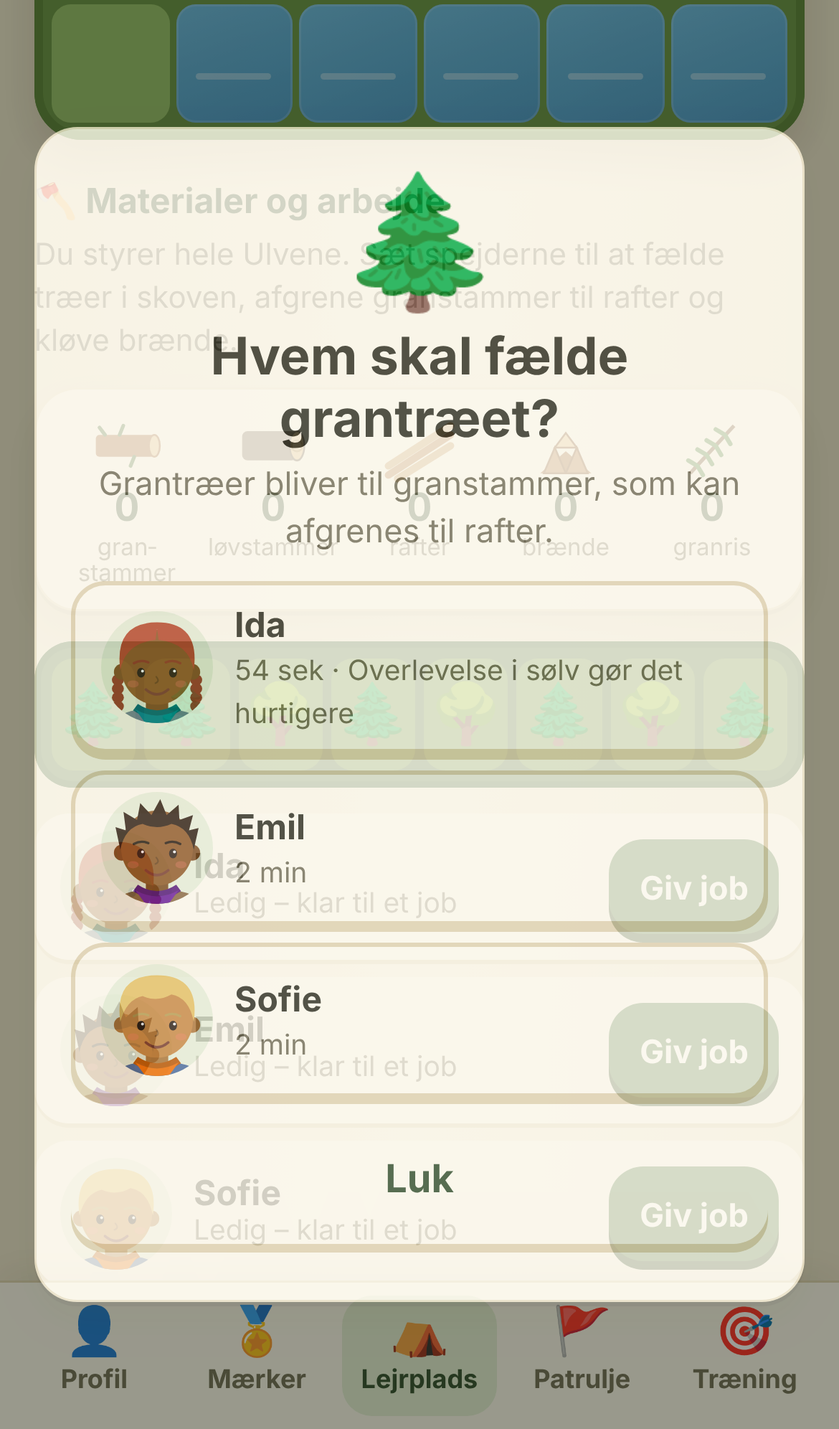
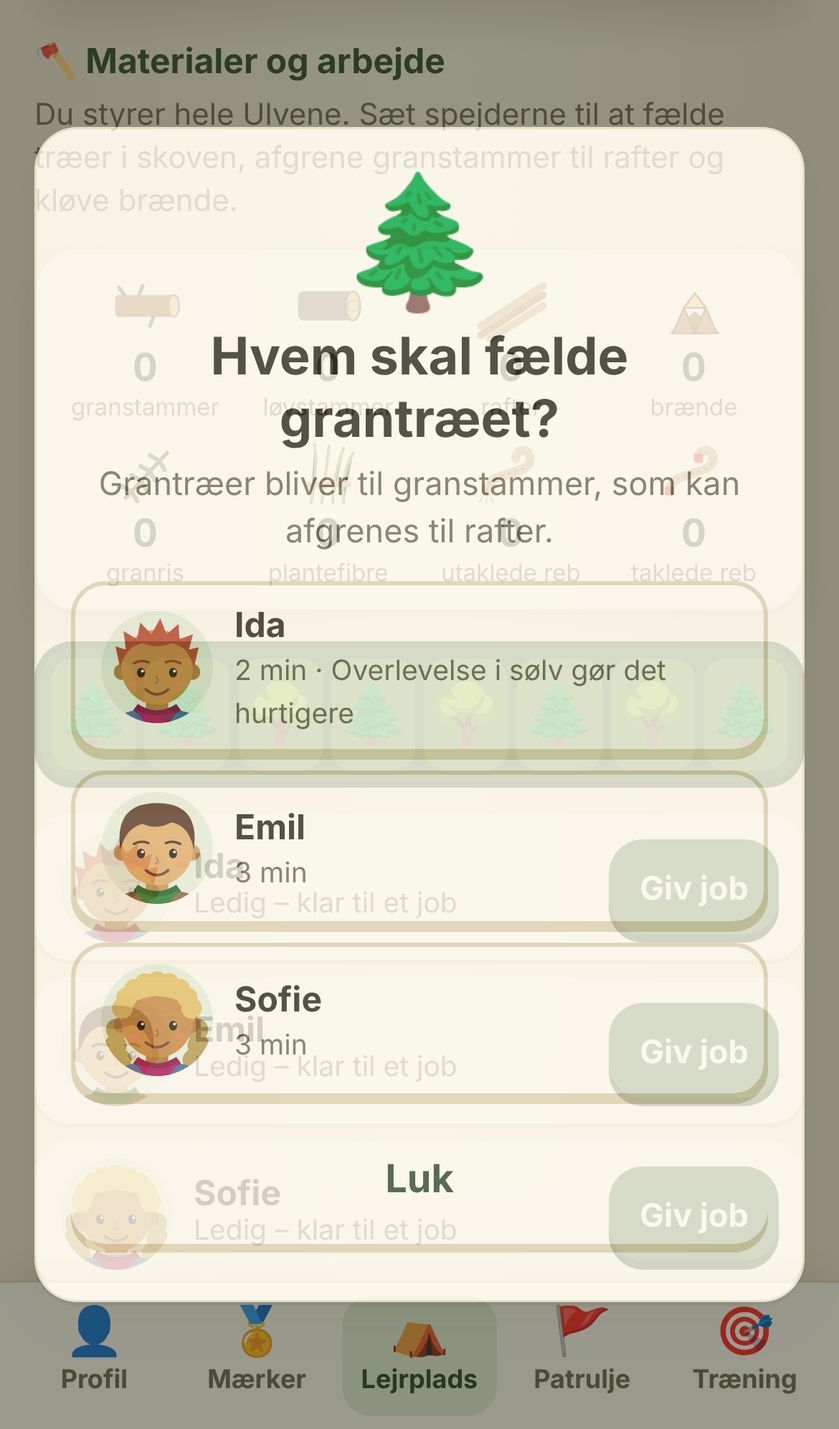
Eget tovværk, opgradering af lejrpladsen og dobbelt ventetid
- Tovværk: saml brændenælder og bast, sno tovværk og takl det (kun
  spejdere med Knob og reb kan takle). Pionerarbejde koster nu reb
- Alt på lejrpladsen kan opgraderes i 5 niveauer mod point, materialer
  og byggetid. Lejrporten får flag, tag, sidetårne, guirlande og lygter;
  andre ting får pynt, stjerner og en farvet ramme. Højere niveau giver
  flere point ved aktiviteter, og nedrivning giver alt investeret tilbage
- Alle ventetider er fordoblet via TIDSFAKTOR
- Menuer kan scrolles, når de er høje

Claude-Session: https://claude.ai/code/session_017h6cMn8WgPCx7N5m49QB4i

diff --git a/index.html b/index.html
@@ -369,7 +369,7 @@ div.prk+div.prk{border-top:1px solid var(--line)}
 .turchip{display:flex;align-items:center;gap:8px;background:#fff7d6;border:2px solid #e8c95a;border-radius:14px;padding:8px 12px;margin-bottom:10px;font-size:15px;line-height:1.3}
 
 .lagerkort{padding:10px}
-.lagerliste{display:grid;grid-template-columns:repeat(5,1fr);gap:4px}
+.lagerliste{display:grid;grid-template-columns:repeat(4,1fr);gap:8px 4px}
 .lagerchip{display:flex;flex-direction:column;align-items:center;gap:1px;min-width:0}
 .lagerchip .matik{width:34px;height:34px}.lagerchip b{font-size:18px;color:var(--forest);font-variant-numeric:tabular-nums}.lagerchip small{font-size:11px;color:var(--muted);text-align:center;line-height:1.15;hyphens:manual;max-width:100%}
 .matik{display:inline-block;vertical-align:middle}.matik.lille{width:18px;height:18px}
@@ -393,9 +393,17 @@ div.prk+div.prk{border-top:1px solid var(--line)}
 @keyframes vakl{50%{transform:rotate(-6deg)}}
 @keyframes hug{50%{transform:rotate(-30deg)}}
 
+.celle.niv2{box-shadow:inset 0 0 0 2px #cd8a4a}.celle.niv3{box-shadow:inset 0 0 0 2px #dfe4e9}
+.celle.niv4{box-shadow:inset 0 0 0 3px #f4cb4e}.celle.niv5{box-shadow:inset 0 0 0 3px #f4cb4e,0 0 10px 2px rgba(244,203,78,.8);z-index:1}
+.nivmark{position:absolute;top:1px;left:3px;z-index:2;font-size:9px;line-height:1;color:#f4cb4e;text-shadow:0 0 2px #2a2a1f,0 0 2px #2a2a1f;letter-spacing:-1px}
+.opgniv{margin:12px 0 8px;display:flex;flex-direction:column;align-items:center;gap:2px}
+.opgniv .nivstj{color:#e0a923;font-size:20px;letter-spacing:2px}.opgniv small{color:var(--muted)}
+.opgkost{font-weight:700;font-size:15px;margin:-4px 0 4px}.opgkost small{font-weight:400;color:var(--muted)}
+small.mangler{color:var(--bad);display:block;margin-bottom:8px}
+
 /* Modal / fejring */
 .overlay{position:fixed;inset:0;z-index:1000;background:rgba(30,35,20,.55);display:flex;align-items:center;justify-content:center;padding:16px;animation:fadein .2s}
-.modal{width:100%;max-width:400px;margin:0}
+.modal{width:100%;max-width:400px;margin:0;max-height:calc(100dvh - 32px);overflow-y:auto;overscroll-behavior:contain}
 .modal p{font-size:18px;margin:4px 0 8px;text-align:center}
 .celebrate{background:radial-gradient(circle at 50% 40%,#3c6a35 0,#1e321a 75%);overflow:hidden}
 .rays{position:absolute;left:50%;top:40%;width:900px;height:900px;margin:-450px 0 0 -450px;
@@ -3159,12 +3167,15 @@ const PIONER = {
     <g><ellipse cx="33" cy="9" rx="3" ry="2.2" fill="#f2c94c"/><path d="M32 7.5 v3 M34 7.5 v3" stroke="#222"/><ellipse cx="33" cy="7" rx="2" ry="1.2" fill="#fff" opacity=".8"/></g>`,
 };
 
+// Alle ventetider ganges med denne faktor (2 = dobbelt så lang tid). Sæt den ned, hvis spillet skal gå hurtigere.
+const TIDSFAKTOR = 2;
 // Byggetid i sekunder (ting, der ikke står her, bygges med det samme)
 const BYGTID = { telt:60, patruljetelt:180, hytte:900, latrin:60, baal:60, koekken:120, lejrbaal:300,
   bord:120, port:300, taarn:900, svaevebane:1200, forstehjalp:60, baare:120, hjertestarter:60,
   fuglekasse:60, opost:30, vejviser:60, kompasrose:300, vejrstation:120, solur:240, shelter:180,
   vandstation:240, traehytte:900, kano:30, badebro:600, sejlbaad:60, flag:60, liljeskilt:180,
   jamboree:600, insekthotel:180, bistade:300, morselampe:60, semaforpost:120, radiomast:300 };
+for(const k in BYGTID) BYGTID[k] *= TIDSFAKTOR;
 const TELT_IDS = ["telt","patruljetelt","jamboree"];
 
 /* ---------- Surringsopgaver til pionerarbejde ----------
@@ -3208,12 +3219,17 @@ let bygOpg = null;     // igangværende surringsopgave
 let lejrUr = null;     // opdaterer byggetider på skærmen
 
 function lejrPoint(c){ return Math.max(0, (c.point||0) - (c.brugt||0)); }
-function bygIkon(b){ return b.svg ? `<svg viewBox="0 0 40 40" aria-hidden="true">${PIONER[b.svg]}</svg>` : `<span class="emo">${b.ikon}</span>`; }
+function bygIkon(b, niv){
+  niv = niv || 1;
+  if(!b.svg) return `<span class="emo">${b.ikon}</span>`;
+  const indhold = b.id==="port" ? portSVG(niv) : PIONER[b.svg] + nivPynt(niv);
+  return `<svg viewBox="0 0 40 40" aria-hidden="true">${indhold}</svg>`;
+}
 function harKrav(c,b){ return !b.krav || (c.badges[b.krav[0]]||0) >= b.krav[1]; }
 function kravTekst(b){ return `${EMNE[b.krav[0]].navn} – ${NIVEAUER[b.krav[1]].navn.toLowerCase()}`; }
 function erVand(i){ return VAND.has(Math.floor(i/LEJR_KOL)+","+(i%LEJR_KOL)); }
 function kanStaa(b,i){ return !!b.vand === erVand(i); }
-function lejrFelter(c){ c.lejr = c.lejr || {}; c.lejrTid = c.lejrTid || {}; c.telte = c.telte || {}; return c.lejr; }
+function lejrFelter(c){ c.lejr = c.lejr || {}; c.lejrTid = c.lejrTid || {}; c.telte = c.telte || {}; c.lejrNiv = c.lejrNiv || {}; c.lejrOpg = c.lejrOpg || {}; c.lejrInv = c.lejrInv || {}; return c.lejr; }
 function restTid(c,i){ const t=(c.lejrTid||{})[i]; return t ? Math.max(0, t-Date.now()) : 0; }
 function underByg(c,i){ return restTid(c,i) > 0; }
 function fmtTid(ms){
@@ -3224,7 +3240,7 @@ function tidTekst(sek){ return sek>=60 ? `${Math.round(sek/60)} min` : `${sek} s
 
 function scrLejr(){
   const c=cur(), felter=lejrFelter(c), ledig=lejrPoint(c), antalByg=Object.keys(felter).length;
-  const nyt=tjekArbejde(c); if(nyt.length) setTimeout(()=>lejrToast(nyt.join("<br>")), 50);
+  const nyt=[...fuldfoerByg(c), ...tjekArbejde(c)]; if(nyt.length) setTimeout(()=>{ lejrToast(nyt.join("<br>")); vibrer([60,40,60]); }, 50);
   const valgt = lejrValg && (lejrValg.type==="ny" ? BYGID[lejrValg.id] : BYGID[felter[lejrValg.idx]]);
   let h = `<div class="topbar"><span class="spacer"></span><h1>${esc(c.navn)}s lejrplads</h1><span class="spacer"></span></div>
     <div class="lejrinfo"><span class="chip">🪙 <b>${fmt(ledig)}</b> point at bygge for</span><span class="chip">🏗 ${antalByg} bygget</span></div>`;
@@ -3241,9 +3257,10 @@ function scrLejr(){
     if(valgt && !b && kanStaa(valgt,i)) cls += " kan";
     if(lejrValg && lejrValg.type==="flyt" && lejrValg.idx===i) cls += " flyttes";
     if(lejrNy===i) cls += " ny";
-    const bygger = b && underByg(c,i);
+    const bygger = b && underByg(c,i), niv = b ? lejrNiv(c,i) : 1;
     if(bygger) cls += " bygger";
-    h += `<button class="celle ${cls}" data-a="celle" data-i="${i}" aria-label="${b?b.navn+(bygger?" (bygges)":""):erVand(i)?"Sø":"Græs"}">${b?bygIkon(b):""}${bygger?`<span class="tid" data-tid="${i}">⏳ ${fmtTid(restTid(c,i))}</span>`:""}</button>`;
+    if(niv>1) cls += " niv"+niv;
+    h += `<button class="celle ${cls}" data-a="celle" data-i="${i}" aria-label="${b?b.navn+(niv>1?` niveau ${niv}`:"")+(bygger?" (bygges)":""):erVand(i)?"Sø":"Græs"}">${b?bygIkon(b,niv):""}${niv>1&&!bygger?`<span class="nivmark">${"★".repeat(niv-1)}</span>`:""}${bygger?`<span class="tid" data-tid="${i}">${c.lejrOpg[i]?"⬆":"⏳"} ${fmtTid(restTid(c,i))}</span>`:""}</button>`;
   }
   h += `</div>`;
   lejrNy = null;
@@ -3282,7 +3299,7 @@ function startLejrUr(){
       const i=+el.dataset.tid, ms=restTid(c,i);
       if(ms<=0) faerdig=i; else el.textContent="⏳ "+fmtTid(ms);
     });
-    if(faerdig!==null){ delete c.lejrTid[faerdig]; save(); lejrNy=faerdig; render(); lejrToast(`🎉 ${BYGID[c.lejr[faerdig]].navn} er færdigbygget!`); vibrer([60,40,60]); }
+    if(faerdig!==null) render();
   }, 1000);
 }
 
@@ -3298,7 +3315,7 @@ function vaelgByg(id){
   if(!harKrav(c,b)){ lejrToast(`🔒 ${b.navn} kræver mærket <b>${kravTekst(b)}</b>. Tag prøven under Mærker.`); return; }
   if(lejrPoint(c) < b.pris){ lejrToast(`Du mangler ${b.pris-lejrPoint(c)} point til ${b.navn}. Svar på flere spørgsmål!`); return; }
   if(!harMat(c,BYGMAT[b.id])){ const m=manglerMat(c,BYGMAT[b.id]);
-    lejrToast(`Du mangler ${matTekst(m)} til ${b.navn}. ${m.rafter||m.granris?"Sæt nogen til at fælde grantræer og afgrene dem.":"Sæt nogen til at fælde løvtræer og kløve brænde."}`); return; }
+    lejrToast(`Du mangler ${matTekst(m)} til ${b.navn}. ${m.reb?"Saml plantefibre, sno tovværk og takl det.":m.rafter||m.granris?"Sæt nogen til at fælde grantræer og afgrene dem.":"Sæt nogen til at fælde løvtræer og kløve brænde."}`); return; }
   lejrValg = (lejrValg && lejrValg.id===id) ? null : { type:"ny", id };
   render();
   if(lejrValg){ const t=document.getElementById("toast"); if(t) t.hidden=true; lejrScrollKort(); }
@@ -3306,6 +3323,7 @@ function vaelgByg(id){
 function placer(c,i,b){
   const felter=lejrFelter(c);
   felter[i]=b.id; c.brugt=(c.brugt||0)+b.pris; brugMat(c, BYGMAT[b.id], -1);
+  c.lejrNiv[i]=1; c.lejrInv[i]={ p:b.pris, m:{ ...(BYGMAT[b.id]||{}) } }; delete c.lejrOpg[i];
   if(BYGTID[b.id]) c.lejrTid[i]=Date.now()+BYGTID[b.id]*1000;
   save();
 }
@@ -3314,6 +3332,7 @@ function flytFelt(c,fra,til){
   f[til]=f[fra]; delete f[fra];
   if(c.lejrTid[fra]){ c.lejrTid[til]=c.lejrTid[fra]; delete c.lejrTid[fra]; }
   if(c.telte[fra]){ c.telte[til]=c.telte[fra]; delete c.telte[fra]; }
+  ["lejrNiv","lejrOpg","lejrInv"].forEach(k=>{ if(c[k] && c[k][fra]!=null){ c[k][til]=c[k][fra]; delete c[k][fra]; } });
 }
 function indboVaerdi(c,i){ const t=(c.telte||{})[i]; return t ? Object.values(t.ting||{}).reduce((s,id)=>s+(INDBOID[id]?INDBOID[id].pris:0),0) : 0; }
 
@@ -3349,18 +3368,21 @@ function visFeltMenu(i){
     knapper = `<p class="byggetid">⏳ Færdig om <b id="m-tid">${fmtTid(restTid(c,i))}</b></p>
       <button class="btn gold" id="m-hjaelp">💪 Hjælp patruljen: svar på et spørgsmål (−1 min)</button>`;
   } else {
-    knapper = (AKT_FOR[her.id]||[]).map(([a,t])=>`<button class="btn gold" data-akt="${a}">${t}</button>`).join("");
+    knapper = (AKT_FOR[her.id]||[]).map(([a,t])=>`<button class="btn" data-akt="${a}">${t}</button>`).join("");
     if(TELT_IDS.includes(her.id)) knapper += `<button class="btn" id="m-ind">🚪 Gå ind i teltet</button>`;
+    knapper += opgHTML(c, i);
   }
+  const inv = c.lejrInv[i] || { p:her.pris, m:BYGMAT[her.id]||{} };
   knapper += `<div class="row"><button class="btn secondary" id="m-flyt">↔ Flyt</button><button class="btn earth" id="m-riv">🔨 Riv ned</button></div>
-    <small class="muted">River du ned, får du ${her.pris+indbo} point${BYGMAT[her.id]?" og materialerne":""} tilbage.</small>
+    <small class="muted">River du ned, får du ${inv.p+indbo} point${Object.keys(inv.m).length?" og materialerne":""} tilbage.</small>
     <button class="btn secondary" id="m-luk">Luk</button>`;
-  modalRoot.innerHTML = `<div class="overlay"><div class="card modal center"><div class="bigik ${bygger?"bygger":""}">${bygIkon(her)}</div>
-    <h2 style="margin-top:6px">${her.navn}${bygger?" 🚧":""}</h2><p class="muted" style="font-size:16px">${bygger?"Patruljen er i gang med at bygge.":her.besk}</p>${knapper}</div></div>`;
+  modalRoot.innerHTML = `<div class="overlay"><div class="card modal center"><div class="bigik ${bygger?"bygger":""}">${bygIkon(her, lejrNiv(c,i))}</div>
+    <h2 style="margin-top:6px">${her.navn}${bygger?" 🚧":""}</h2><p class="muted" style="font-size:16px">${bygger?(c.lejrOpg[i]?`Patruljen opgraderer til niveau ${c.lejrOpg[i]}.`:"Patruljen er i gang med at bygge."):her.besk}</p>${knapper}</div></div>`;
   const $=s=>modalRoot.querySelector(s);
   $("#m-luk").onclick=luk;
   $("#m-flyt").onclick=()=>{ luk(); lejrValg={type:"flyt",idx:i}; render(); };
-  $("#m-riv").onclick=()=>{ luk(); const t=her.pris+indboVaerdi(c,i); brugMat(c, BYGMAT[her.id], 1); delete c.lejr[i]; delete c.lejrTid[i]; delete c.telte[i];
+  if($("#m-opg")) $("#m-opg").onclick=()=>{ luk(); opgrader(c,i); };
+  $("#m-riv").onclick=()=>{ luk(); const t=inv.p+indboVaerdi(c,i); brugMat(c, inv.m, 1); delete c.lejr[i]; delete c.lejrTid[i]; delete c.telte[i]; delete c.lejrNiv[i]; delete c.lejrOpg[i]; delete c.lejrInv[i];
     c.brugt=Math.max(0,(c.brugt||0)-t); save(); render(); lejrToast(`${her.navn} er revet ned – du fik ${t} point tilbage.`); };
   if($("#m-ind")) $("#m-ind").onclick=()=>{ luk(); teltValg=null; go("telt",{i}); };
   if($("#m-hjaelp")) $("#m-hjaelp").onclick=()=>hjaelpSpm(i);
@@ -3379,9 +3401,9 @@ function hjaelpSpm(i){
     modalRoot.innerHTML="";
     if(ok){
       c.lejrTid[i]=(c.lejrTid[i]||Date.now())-60000;
-      if(restTid(c,i)<=0){ delete c.lejrTid[i]; lejrNy=i; }
+      if(restTid(c,i)<=0) c.lejrTid[i]=Date.now()-1;
       save(); render(); vibrer(30);
-      lejrToast(restTid(c,i)>0 ? `✅ Rigtigt! Byggeriet går et minut hurtigere.` : `✅ Rigtigt! ${b.navn} er færdigbygget! 🎉`);
+      if(restTid(c,i)>0) lejrToast(`✅ Rigtigt! Byggeriet går et minut hurtigere.`);
     } else {
       vibrer([60,40,60]); render();
       lejrToast(`Desværre. Det rigtige svar var: <b>${esc(q.svar[0])}</b>`);
@@ -3636,6 +3658,7 @@ function dagens(c){ const d=new Date().toDateString(); if(!c.dag || c.dag.dato!=
 function belon(c, id, pts){
   const d=dagens(c), n=d.akt[id]||0;
   if(n>=AKT_LOFT) return `<small class="muted">Du har fået dagens point for denne aktivitet – men det er stadig hyggeligt!</small>`;
+  if(nav.screen==="akt" && nav.params.i!=null) pts += lejrNiv(c, nav.params.i) - 1;
   d.akt[id]=n+1; c.point+=pts; save();
   return `<b class="plus">+${pts} point</b>`;
 }
@@ -3998,29 +4021,38 @@ const MATSVG = {
   loevstamme: `<rect x="3" y="11" width="30" height="16" rx="3" fill="#7a6a5a"/><ellipse cx="33" cy="19" rx="4" ry="8" fill="#e3c08a" stroke="#6b5a4a"/><circle cx="33" cy="19" r="3" fill="none" stroke="#b08a50"/>`,
   rafter: `<g stroke-linecap="round"><path d="M3 30 L37 8" stroke="#c49a63" stroke-width="4"/><path d="M3 35 L37 13" stroke="#b07a45" stroke-width="4"/><path d="M8 37 L37 19" stroke="#c49a63" stroke-width="4"/></g>`,
   braende: `<path d="M6 34 L20 22 L34 34Z" fill="#9a6232"/><path d="M8 34 L14 20 L20 34Z M20 34 L26 20 L32 34Z" fill="#b07a45" stroke="#7c4a22"/><path d="M14 20 L20 12 L26 20Z" fill="#e3c08a" stroke="#7c4a22"/>`,
+  fibre: `<g stroke="#8a9a4a" stroke-width="1.6" stroke-linecap="round"><path d="M10 36 Q14 20 12 4 M16 36 Q18 20 20 5 M22 36 Q22 22 28 6 M28 36 Q26 22 33 9"/></g><path d="M8 26 H32" stroke="#c49a63" stroke-width="3"/>`,
+  rebraa: `<path d="M6 30 C6 18 30 22 30 12 C30 6 22 6 22 12" fill="none" stroke="#c9a46a" stroke-width="5" stroke-linecap="round"/><path d="M6 30 C6 18 30 22 30 12" fill="none" stroke="#8b6a3a" stroke-width="1.2" stroke-dasharray="2 2"/><g stroke="#c9a46a" stroke-width="1"><path d="M4 33 l-2 3 M6 34 l0 3 M8 33 l2 3"/></g>`,
+  reb: `<path d="M6 30 C6 18 30 22 30 12 C30 6 22 6 22 12" fill="none" stroke="#c9a46a" stroke-width="5" stroke-linecap="round"/><path d="M6 30 C6 18 30 22 30 12" fill="none" stroke="#8b6a3a" stroke-width="1.2" stroke-dasharray="2 2"/><rect x="3.5" y="27" width="5" height="5" rx="1" fill="#c62828"/><rect x="19.5" y="9" width="5" height="5" rx="1" fill="#c62828"/>`,
   granris: `<path d="M8 34 L32 8" stroke="#6b4626" stroke-width="2"/><g stroke="#3f7a35" stroke-width="2.4" stroke-linecap="round"><path d="M12 30 l-5 -3 M12 30 l3 5 M17 24 l-5 -3 M17 24 l3 5 M22 19 l-5 -3 M22 19 l3 5 M27 13 l-5 -3 M27 13 l3 5"/></g>`,
 };
 const MAT = {
   granstamme: "granstamme", loevstamme: "løvstamme", rafter: "rafte", braende: "brænde", granris: "granris",
+  fibre: "bundt plantefibre", rebraa: "utaklet reb", reb: "taklet reb",
 };
-const MATFLERTAL = { granstamme:"granstammer", loevstamme:"løvstammer", rafter:"rafter", braende:"brænde", granris:"granris" };
+const MATFLERTAL = { granstamme:"granstammer", loevstamme:"løvstammer", rafter:"rafter", braende:"brænde", granris:"granris",
+  fibre:"plantefibre", rebraa:"utaklede reb", reb:"taklede reb" };
 function matIkon(m, cls){ return `<svg viewBox="0 0 40 40" class="matik ${cls||""}" aria-hidden="true">${MATSVG[m]}</svg>`; }
 function matTekst(obj){ return Object.entries(obj).map(([m,n])=>`${n} ${n===1?MAT[m]:MATFLERTAL[m]}`).join(" og "); }
 
 // Materialer, de enkelte ting koster at bygge
-const BYGMAT = { bord:{rafter:4}, baare:{rafter:2}, port:{rafter:8}, taarn:{rafter:12}, svaevebane:{rafter:10}, badebro:{rafter:8},
-  shelter:{rafter:2, granris:3}, traehytte:{rafter:6}, vejviser:{rafter:1}, flag:{rafter:1}, semaforpost:{rafter:1}, hytte:{rafter:6, braende:4},
-  baal:{braende:3}, koekken:{braende:4}, lejrbaal:{rafter:2, braende:8}, braende:{braende:4}, latrin:{rafter:2} };
+const BYGMAT = { bord:{rafter:4, reb:2}, baare:{rafter:2, reb:1}, port:{rafter:8, reb:4}, taarn:{rafter:12, reb:6}, svaevebane:{rafter:10, reb:8}, badebro:{rafter:8, reb:4},
+  shelter:{rafter:2, granris:3, reb:1}, traehytte:{rafter:6, reb:2}, vejviser:{rafter:1}, flag:{rafter:1, reb:1}, semaforpost:{rafter:1, reb:1}, hytte:{rafter:6, braende:4},
+  baal:{braende:3}, koekken:{braende:4}, lejrbaal:{rafter:2, braende:8}, braende:{braende:4}, latrin:{rafter:2, reb:1} };
 
 const SKOV = ["gran","gran","loev","gran","loev","gran","loev","gran"];
-const GENVAEKST = 5*60;   // sekunder før et fældet træ er vokset op igen
+const GENVAEKST = 5*60*TIDSFAKTOR;   // sekunder før et fældet træ er vokset op igen
 const JOB = {
   faeldGran: { navn:"Fæld et grantræ",  ikon:"🪓", tid:90,  fag:"overlevelse", trae:"gran", giver:{granstamme:1}, besk:"Giver en granstamme" },
   faeldLoev: { navn:"Fæld et løvtræ",   ikon:"🪓", tid:120, fag:"overlevelse", trae:"loev", giver:{loevstamme:1}, besk:"Giver en løvstamme" },
   afgren:    { navn:"Afgren en granstamme", ikon:"🔪", tid:60, fag:"overlevelse", bruger:{granstamme:1}, giver:{rafter:2, granris:1}, besk:"Grenene skæres af – så har I lige rafter" },
   kloev:     { navn:"Kløv en løvstamme", ikon:"🪓", tid:60,  fag:"baal", bruger:{loevstamme:1}, giver:{braende:4}, besk:"Stammen saves og kløves til brænde" },
   saml:      { navn:"Saml grene og kvas", ikon:"🧺", tid:20,  fag:"baal", giver:{braende:1}, besk:"Døde grene fra skovbunden" },
+  fibre:     { navn:"Saml brændenælder og bast", ikon:"🌿", tid:60, fag:"planter", giver:{fibre:2}, besk:"Fibrene i brændenælder kan snos til reb – brug handsker!" },
+  sno:       { navn:"Sno tovværk", ikon:"🪢", tid:90, fag:"knob", bruger:{fibre:3}, giver:{rebraa:1}, besk:"Fibrene snos til kordeler, som slås sammen til et reb" },
+  takle:     { navn:"Takl tovværket", ikon:"🧵", tid:45, fag:"knob", bruger:{rebraa:1}, giver:{reb:1}, kraever:["knob",1], besk:"Enderne takles med tyndt garn, så rebet ikke flosser" },
 };
+for(const k in JOB) JOB[k].tid *= TIDSFAKTOR;
 
 function lagerEjer(c){ return minPatrulje(c) || c; }
 function lager(c){ const o=lagerEjer(c); return o.lager || (o.lager={}); }
@@ -4087,6 +4119,7 @@ function visJobValg(id, kunTrae){
     let grund="";
     if(j.trae && ledigtTrae(c,j.trae)<0) grund = `Der er ingen ${j.trae==="gran"?"grantræer":"løvtræer"} at fælde lige nu – de vokser op igen.`;
     if(j.bruger && !harMat(c,j.bruger)) grund = `Kræver ${matTekst(j.bruger)} på lageret.`;
+    if(j.kraever && (m.badges[j.kraever[0]]||0) < j.kraever[1]) grund = `${esc(m.navn)} skal have ${EMNE[j.kraever[0]].navn} i ${NIVEAUER[j.kraever[1]].navn.toLowerCase()} for at kunne takle.`;
     const tid=jobTid(m,jid), lvl=m.badges[j.fag]||0;
     return `<button class="pvalg" data-job="${jid}" ${grund?"disabled":""}><span class="jobik">${j.ikon}</span><span><b>${j.navn}</b>
       <small>${grund || `${j.besk} · ${tidTekst(tid)}${lvl?` · hurtigere, fordi ${esc(m.navn)} har ${EMNE[j.fag].navn} i ${NIVEAUER[lvl].navn.toLowerCase()}`:""}`}</small></span>
@@ -4127,6 +4160,76 @@ function traeKlik(i){
     m.job={ id:jid, start:Date.now(), slut:Date.now()+t, slot:i }; save(); render(); vibrer(30);
     lejrToast(`🪓 ${esc(m.navn)} fælder ${type==="gran"?"grantræet":"løvtræet"}. Færdig om ${tidTekst(Math.round(t/1000))}.`);
   });
+}
+
+/* ---------- Opgradering af alt på lejrpladsen ---------- */
+const MAKSNIV = 5;
+const NIVNAVN = ["", "Normal", "Forbedret", "Flot", "Prægtig", "Mester"];
+const NIVTEKST = { port: ["", "En enkel port af rafter.", "Flag på begge stolper.", "Tag med patruljens mærke.", "Sidetårne og vimpelguirlande.", "Lygter og guldspir – lejrens flotteste indgang!"] };
+
+function portSVG(n){
+  let s = "";
+  if(n>=4) s += `<g stroke="${TRAE}" stroke-width="2.2" stroke-linecap="round"><path d="M1.5 38 V15 M4.5 38 V15 M35.5 38 V15 M38.5 38 V15 M0.5 17 H5.5 M34.5 17 H39.5 M1.5 30 L4.5 24 M38.5 30 L35.5 24"/></g>`;
+  s += PIONER.port;
+  if(n>=3) s += `<path d="M5 8.5 L20 1 L35 8.5Z" fill="#2f6b3a" stroke="#1f4a28" stroke-width=".8"/><circle cx="20" cy="5.6" r="2.3" fill="#f2c94c" stroke="#a8790c" stroke-width=".5"/>`;
+  if(n>=4) s += `<path d="M7 21 Q20 27 33 21" fill="none" stroke="#5c3a20" stroke-width=".6"/>${[[10,22.5,"#c62828"],[15,24.5,"#f2c94c"],[20,25.2,"#2e7d32"],[25,24.5,"#1e5fb4"],[30,22.5,"#8e44ad"]].map(([x,y,f])=>`<path d="M${x-1.6} ${y-.6} L${x+1.6} ${y-.6} L${x} ${y+2.6}Z" fill="${f}"/>`).join("")}`;
+  if(n>=2) s += `<path d="M9.5 6 V0.5 L16 2.5 L9.5 4.5" fill="#c62828"/><path d="M30.5 6 V0.5 L37 2.5 L30.5 4.5" fill="#c62828"/>`;
+  if(n>=5) s += `<circle cx="20" cy="0.9" r="1.4" fill="#f2c94c"/><g><circle cx="9.5" cy="21" r="1.8" fill="#ffe680"/><circle cx="30.5" cy="21" r="1.8" fill="#ffe680"/><circle cx="9.5" cy="21" r="3.6" fill="#ffe680" opacity=".3"/><circle cx="30.5" cy="21" r="3.6" fill="#ffe680" opacity=".3"/></g>`;
+  return s;
+}
+function nivPynt(n){
+  let s="";
+  if(n>=3) s += `<path d="M34 1.5 V11" stroke="#777" stroke-width=".8"/><path d="M34 1.5 L39.5 3.5 L34 5.5Z" fill="#c62828"/>`;
+  if(n>=4) s += `<path d="M0.5 4 Q6 8 11.5 4" fill="none" stroke="#5c3a20" stroke-width=".5"/><path d="M2 4.6 L4 4.6 L3 7Z" fill="#f2c94c"/><path d="M5 5.8 L7 5.8 L6 8.2Z" fill="#1e5fb4"/><path d="M8 5 L10 5 L9 7.4Z" fill="#c62828"/>`;
+  if(n>=5) s += stjerne(4.5, 35, 3.6, "#f2c94c");
+  return s;
+}
+function lejrNiv(c,i){ return (c.lejrNiv||{})[i] || 1; }
+function opgKost(c, b, ny){
+  const p = Math.round(b.pris*0.5*(ny-1)) + 10*(ny-1);
+  const base = BYGMAT[b.id], m = {};
+  if(base) Object.entries(base).forEach(([k,n])=>{ m[k]=Math.ceil(n*0.5*(ny-1)); });
+  else { m.rafter = ny-1; if(ny>=3) m.reb = ny-2; }
+  const tid = Math.round((BYGTID[b.id] || 60*TIDSFAKTOR) * 0.75 * (ny-1));
+  const kravNiv = b.krav && ny>=4 ? 3 : 0;
+  return { p, m, tid, kravNiv };
+}
+function opgHTML(c, i){
+  const b=BYGID[c.lejr[i]], n=lejrNiv(c,i);
+  let h = `<div class="opgniv"><span class="nivstj">${"★".repeat(n)}${"☆".repeat(MAKSNIV-n)}</span><b>Niveau ${n}: ${NIVNAVN[n]}</b>${NIVTEKST[b.id]?`<small>${NIVTEKST[b.id][n]}</small>`:""}</div>`;
+  if(n>=MAKSNIV) return h + `<p class="muted psmall" style="margin:4px 0 10px">🏆 ${b.navn} er på højeste niveau.</p>`;
+  const k=opgKost(c,b,n+1), mangler=[];
+  if(lejrPoint(c)<k.p) mangler.push(`${k.p-lejrPoint(c)} point`);
+  if(!harMat(c,k.m)) mangler.push(matTekst(manglerMat(c,k.m)));
+  if(k.kravNiv && (c.badges[b.krav[0]]||0)<k.kravNiv) mangler.push(`${EMNE[b.krav[0]].navn} i guld`);
+  h += `<button class="btn gold" id="m-opg" ${mangler.length?"disabled":""}>⬆ Opgrader til niveau ${n+1}: ${NIVNAVN[n+1]}</button>
+    <div class="opgkost">🪙 ${k.p} · ${Object.entries(k.m).filter(([,x])=>x>0).map(([mm,x])=>`${matIkon(mm,"lille")}${x}`).join(" ")} · ⏳ ${tidTekst(k.tid)}${NIVTEKST[b.id]?`<br><small>${NIVTEKST[b.id][n+1]}</small>`:""}</div>
+    ${mangler.length?`<small class="mangler">Du mangler: ${mangler.join(", ")}</small>`:`<small class="muted">${AKT_FOR[b.id]?"Højere niveau giver flere point ved aktiviteten.":"Højere niveau gør din lejrplads flottere."}</small>`}`;
+  return h;
+}
+function opgrader(c, i){
+  const b=BYGID[c.lejr[i]], n=lejrNiv(c,i), k=opgKost(c,b,n+1);
+  if(n>=MAKSNIV || lejrPoint(c)<k.p || !harMat(c,k.m)) return;
+  c.brugt=(c.brugt||0)+k.p; brugMat(c,k.m,-1);
+  const inv = c.lejrInv[i] || (c.lejrInv[i]={ p:b.pris, m:{ ...(BYGMAT[b.id]||{}) } });
+  inv.p += k.p; Object.entries(k.m).forEach(([mm,x])=>{ inv.m[mm]=(inv.m[mm]||0)+x; });
+  c.lejrOpg[i]=n+1; c.lejrTid[i]=Date.now()+k.tid*1000;
+  save(); render(); vibrer(40);
+  lejrToast(`⬆ Patruljen går i gang med at opgradere ${b.navn.toLowerCase()} til niveau ${n+1}. Færdig om ${tidTekst(k.tid)}.`);
+}
+// Færdiggør byggerier og opgraderinger, hvis tiden er gået
+function fuldfoerByg(c){
+  lejrFelter(c); const msg=[];
+  Object.keys(c.lejrTid).forEach(i=>{
+    if(c.lejrTid[i] > Date.now()) return;
+    delete c.lejrTid[i];
+    const b=BYGID[c.lejr[i]]; if(!b) return;
+    if(c.lejrOpg[i]){ c.lejrNiv[i]=c.lejrOpg[i]; delete c.lejrOpg[i]; msg.push(`⬆ ${b.navn} er opgraderet til niveau ${c.lejrNiv[i]}: ${NIVNAVN[c.lejrNiv[i]]}!`); }
+    else msg.push(`🎉 ${b.navn} er færdigbygget!`);
+    lejrNy=+i;
+  });
+  if(msg.length) save();
+  return msg;
 }
 
 /* ---------- Faner ---------- */

diff --git a/sw.js b/sw.js
@@ -1,6 +1,6 @@
 // Service worker: gemmer appen, så den virker uden internet.
 // Skift versionsnummeret, når index.html ændres, så telefonerne henter den nye udgave.
-const CACHE = "spejderquiz-v7";
+const CACHE = "spejderquiz-v8";
 const FILER = ["./", "./index.html", "./manifest.webmanifest",
   "./icons/icon-192.png", "./icons/icon-512.png", "./icons/icon-maskable-512.png", "./icons/apple-touch-icon.png"];
 

diff --git a/README.md b/README.md
@@ -11,7 +11,8 @@ Hele appen ligger i én fil, `index.html`. Den virker offline og kan åbnes dire
 - Fri træning, nedtælling på 20 sekunder, point og streak
 - Lejrplads, hvor man bygger telte, bål, pionerarbejde og meget mere for sine point. Mange ting kræver et bestemt mærke
 - Pionerarbejde kræver, at man selv binder surringerne (kvadrat-, diagonal- og trefodssurring), og store ting tager tid at bygge
-- Materialer og arbejde på lejrpladsen: sæt patruljens spejdere til at fælde grantræer (→ granstammer → afgrenes til rafter) og løvtræer (→ løvstammer → kløves til brænde). Pionerarbejde koster rafter, og bål koster brænde
+- Materialer og arbejde på lejrpladsen: sæt patruljens spejdere til at fælde grantræer (→ granstammer → afgrenes til rafter) og løvtræer (→ løvstammer → kløves til brænde). Lav jeres eget tovværk: saml brændenælder og bast, sno tovværk og takl det (kræver Knob og reb). Pionerarbejde koster rafter og reb, og bål koster brænde
+- Alt på lejrpladsen kan opgraderes i 5 niveauer (Normal → Mester) – fx bliver lejrporten flottere og flottere
 - Telte kan man gå ind i og indrette
 - Aktiviteter på lejrpladsen: sæt dig ved lejrbålet (læg brænde på, rist skumfiduser, hør historier, lejrbålsquiz), bag snobrød, find stjernebilleder i stjernekikkerten, tag en tur på svævebanen, hejs flaget, sejl på søen m.m.
 - Flere spejdere på samme telefon. Alt gemmes lokalt i browseren
@@ -31,7 +32,7 @@ Det rigtige svar står altid først. Niveau 1 = bronze, 2 = sølv, 3 = guld.
 Opgaver, hvor man skal sætte trin i rækkefølge, skrives med `R(...)` (trinnene i den rigtige rækkefølge). Spørgsmål med morselampe eller semafor skrives med `QM(...)` og fx `{ type:"morse", tekst:"HEJ" }` eller `{ type:"semafor", tekst:"KANO" }` til sidst.
 
 ## Ret i lejrpladsen
-Tingene, man kan bygge, står i listen `BYG` i `index.html`. Hver ting har en pris og evt. et krav, fx `krav:["knob",2]` = Knob og reb i sølv. Byggetider står i `BYGTID`, materialepriser i `BYGMAT`, arbejdsopgaverne i `JOB`, surringsopgaverne i `OPGAVER` tingene til teltet i `INDBO` og aktiviteterne i `AKT_FOR`, `HISTORIER` og `DYREFAKTA`.
+Tingene, man kan bygge, står i listen `BYG` i `index.html`. Hver ting har en pris og evt. et krav, fx `krav:["knob",2]` = Knob og reb i sølv. Alle ventetider styres af `TIDSFAKTOR` (2 = dobbelt tid). Byggetider står i `BYGTID`, materialepriser i `BYGMAT`, arbejdsopgaverne i `JOB`, surringsopgaverne i `OPGAVER` tingene til teltet i `INDBO` og aktiviteterne i `AKT_FOR`, `HISTORIER` og `DYREFAKTA`.
 
 ## Installér som app
 Appen kan installeres på telefonen fra https://sebastianbalslev.github.io/spejderquiz/ og virker derefter uden internet.
